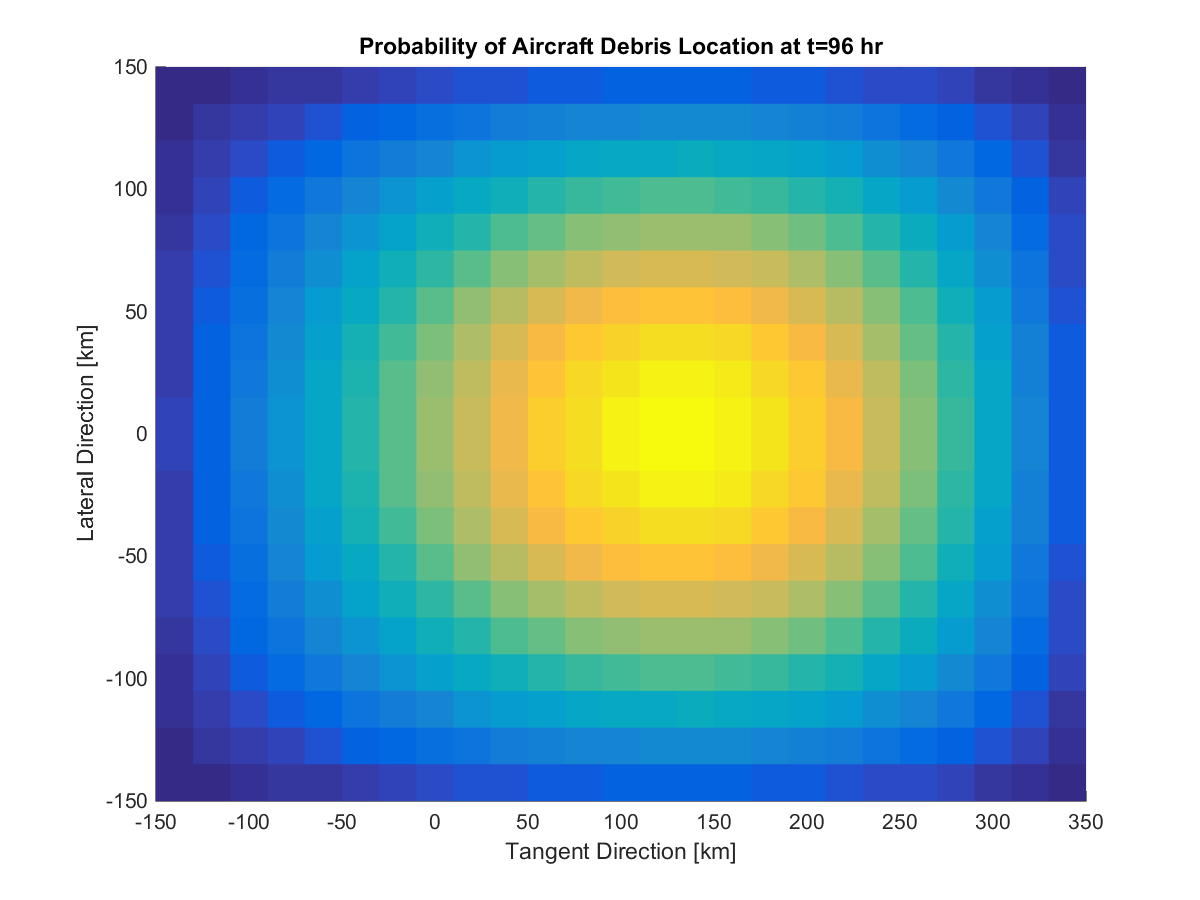
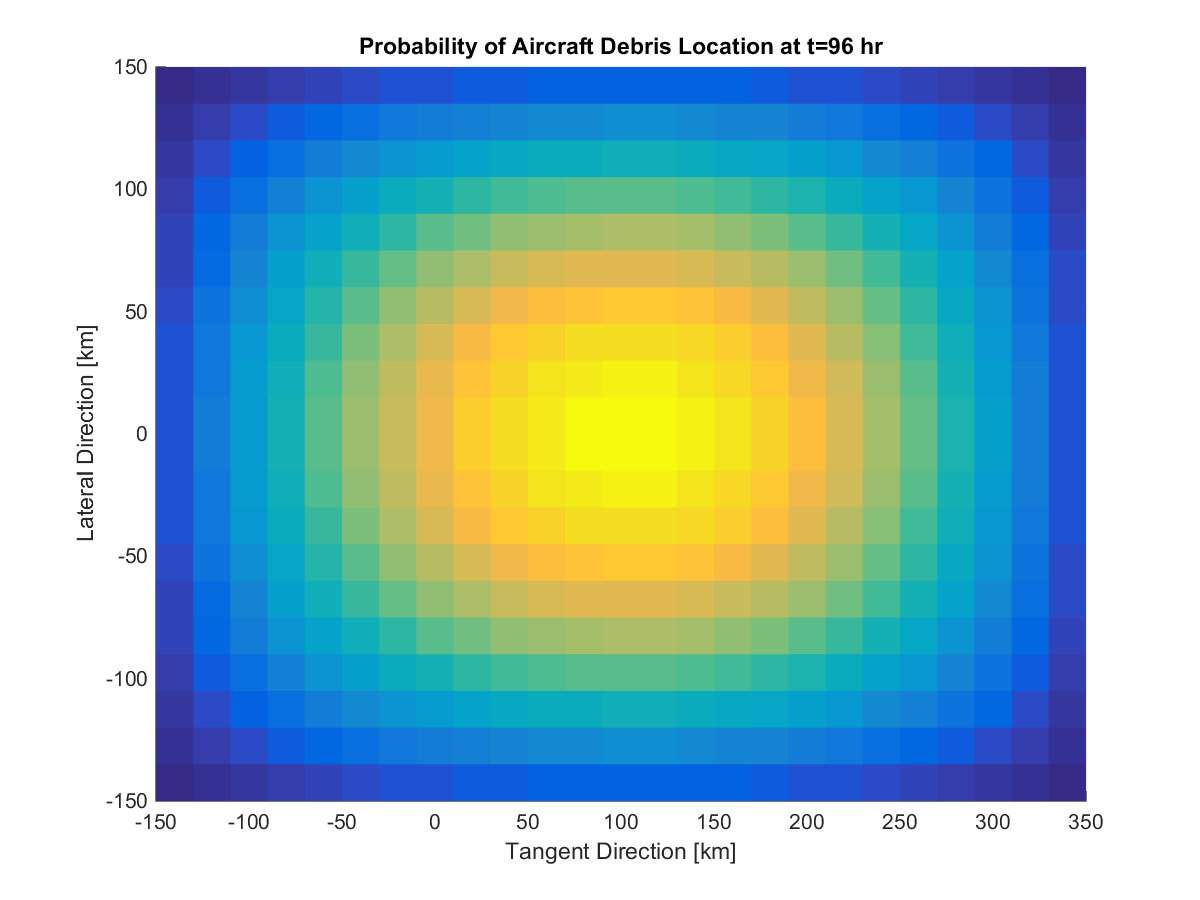
new commit

Changed region(s): [[0.1233, 0.0622, 0.555, 0.9022], [0.6475, 0.3111, 0.8325, 0.6533]]

diff --git a/simulation/main.m b/simulation/main.m
@@ -41,10 +41,11 @@ else
 end
 % # of 1D quadrature points (use even number for symm)
 Nquad = 2;
-% boundary distance [-x1 +x1 -x2 +x2]
+% search domain bounds [-x1 +x1 -x2 +x2]
 bdry = [-150 350 -150 150]*1e3; %m
-% reverse probability
+% reversing probability param
 s = .05; q = 1/pi-2*s;
+
 % average debris drift speed
 dV = 10; %m/s
 
@@ -70,103 +71,102 @@ title(['Estimated Crash Distance for ' acname])
 saveas(gcf,[acname '_CrashDistance.png']);
 
 %% continuous probability at x=(x1,x2)
-rtil = linspace(0,rint,Nrtil);
-Rtil = @(x) sqrt(sum((repmat(x,1,Nrtil)-[rtil;zeros(size(rtil))]).^2));
-theta = @(x) abs(atan2(x(2),x(1)-rtil));
-ptheta = @(x) q + theta(x)*(s-q)/pi;
-pdfx = @(x) interp1(R,PR,Rtil(x)).*ptheta(x);
-%% discritized probability at cell (eu,ev)
+    rtil = linspace(0,rint,Nrtil);
+    Rtil = @(x) sqrt(sum((repmat(x,1,Nrtil)-[rtil;zeros(size(rtil))]).^2));
+    theta = @(x) abs(atan2(x(2),x(1)-rtil));
+    ptheta = @(x) q + theta(x)*(s-q)/pi;
+    pdfx = @(x) interp1(R,PR,Rtil(x)).*ptheta(x);
+    %% discritized probability at cell (eu,ev)
 
-% pre-compute gauss-legendre points and weights
-[u,wu] = gaussquad(Nquad);
-[v,wv] = gaussquad(Nquad);
-Nu = nodefun(u);
-Nv = nodefun(v);
+    % pre-compute gauss-legendre points and weights
+    [u,wu] = gaussquad(Nquad);
+    [v,wv] = gaussquad(Nquad);
+    Nu = nodefun(u);
+    Nv = nodefun(v);
 
-% total domain area
-Agrid = (bdry(2)-bdry(1))*(bdry(4)-bdry(3)); %m2
-% grid pt construction
-S = Surface(N1grid,N2grid,bdry);
-P = zeros(S.numelements);
+    % total domain area
+    Agrid = (bdry(2)-bdry(1))*(bdry(4)-bdry(3)); %m2
+    % grid pt construction
+    S = Surface(N1grid,N2grid,bdry);
+    P = zeros(S.numelements);
 
-%% loops
-% note the vertical symmetry!!!
-wv = wv*2;
-for ev=1:S.numelements(2)/2
-    for eu=1:S.numelements(1)
-        for l=1:Nquad/2
-            for k=1:Nquad
-                % pullback quadrature pts coordinate 
-                [x,y] = S.coords(eu,ev,Nu(:,k),Nv(:,l));
-                Ptemp = sum(pdfx([x;y]))*rint/Nrtil;
-                P(eu,ev) = P(eu,ev) + wu(k)*wv(l)*Ptemp;
+    %% loops
+    % note the vertical symmetry!!!
+    wv = wv*2;
+    for ev=1:S.numelements(2)/2
+        for eu=1:S.numelements(1)
+            for l=1:Nquad/2
+                for k=1:Nquad
+                    % pullback quadrature pts coordinate 
+                    [x,y] = S.coords(eu,ev,Nu(:,k),Nv(:,l));
+                    Ptemp = sum(pdfx([x;y]))*rint/Nrtil;
+                    P(eu,ev) = P(eu,ev) + wu(k)*wv(l)*Ptemp;
+                end
             end
         end
+        P(:,S.numelements(2)-ev+1) = P(:,ev);
     end
-    P(:,S.numelements(2)-ev+1) = P(:,ev);
-end
-%% renormalize and save data
-P = P / sum(P(:));
-save(num2str(ACcase,'prior%d.mat'),'P','S');
-% load(num2str(casenum,'prior%d.mat'))
+    %% renormalize and save data
+    P = P / sum(P(:));
+    save(num2str(ACcase,'prior%d.mat'),'P','S');
+    % load(num2str(casenum,'prior%d.mat'))
 
-%% crash probability distribution graph
+    %% crash probability distribution graph
 
-Splot = Surface(N1grid,N2grid,bdry/1e3);
-figure(); hold all; grid on;
-plottwoform(Splot,P,3); colorbar;
-xlabel('Tangent Direction [km]'); ylabel('Lateral Direction [km]');
-title('Probability of Aircraft Debris Location at t=0 hr');
-hold all;
-traj = plot3([-1e6 0 rint 1e6]/1e3, [0 0 0 0], [1 1 1 1],'rx--');
-set(traj,'linewidth',2,'markersize',15)
-saveas(gcf,[acname '_PriorDistribution.png']);
+    Splot = Surface(N1grid,N2grid,bdry/1e3);
+    figure(); hold all; grid on;
+    plottwoform(Splot,P,3); colorbar;
+    xlabel('Tangent Direction [km]'); ylabel('Lateral Direction [km]');
+    title('Probability of Aircraft Debris Location at t=0 hr');
+    hold all;
+    traj = plot3([-1e6 0 rint 1e6]/1e3, [0 0 0 0], [1 1 1 1],'rx--');
+    set(traj,'linewidth',2,'markersize',15)
+    saveas(gcf,[acname '_PriorDistribution.png']);
 
 %% drift/diffusion simulation
-Tsim = 96*3600; %s
+    Tsim = 96*3600; %s
 
-PP = P;
-% update interval that is appropriate
-% i.e. allow only single cell diffusion given grid resolution
-if GRIDcase == 1
-    dt = .1*60*60; %s
-    Nsim = Tsim/dt; %steps
-else
-    dt = .6*60*60; %s
-    Nsim = Tsim/dt; %steps
-end
-Pmove = driftP(S,dt,dV);
+    PP = P;
+    % update interval that is appropriate
+    % i.e. allow only single cell diffusion given grid resolution
+    if GRIDcase == 1
+        dt = .1*60*60; %s
+        Nsim = Tsim/dt; %steps
+    else
+        dt = .4*60*60; %s
+        Nsim = Tsim/dt; %steps
+    end
+    [Pmove,Ncell] = driftP(S,dt,dV);
 
+    %% propogation steps
+    tVec = (0:dt:Tsim)/3600; %hr
 
-tVec = (0:dt:Tsim)/3600; %hr
+    % Probability of escape at t
+    Qt = zeros(Nsim+1,1);
+    % Probability of escape at t from t-1
+    qt = zeros(Nsim,1);
+    for t = 1:Nsim
+        [PP,qt(t)] = next(S,PP,Pmove);
+        Qt(t+1) = Qt(t) + qt(t)*(1-Qt(t));
+    end
 
-% Probability of escape at t
-Qt = zeros(Nsim+1,1);
-% Probability of escape at t from t-1
-qt = zeros(Nsim,1);
-% propogation loop
-for t = 1:Nsim
-    [PP,qt(t)] = next(S,PP,Pmove);
-    Qt(t+1) = Qt(t) + qt(t)*(1-Qt(t));
-end
-
-% for t = 1:Nsim
-%     [PP,qt(t)] = driftTransition2(S,dt,dV,PP);
-%     Qt(t+1) = Qt(t) + qt(t)*(1-Qt(t));
-% end
-%% Location density is no search initiates
-figure(); hold all; grid on;
-plottwoform(Splot,PP,3);
-xlabel('Tangent Direction [km]'); ylabel('Lateral Direction [km]');
-title(num2str(Tsim/3600, 'Probability of Aircraft Debris Location at t=%d hr'));
-saveas(gcf,[acname '_NoSearchDistribution.png']);
-%% Graph of escape probability over time
-figure(); hold all; grid on;
-plot(tVec,[0;qt],'x--');plot(tVec,Qt,'x--')
-legend('q_t','Q_t');
-xlabel('Time [hr]'); ylabel('Probability');
-title('Probability of Aircraft Debris Escaped Search Domain');
-saveas(gcf,[acname '_NoSearchEscape.png']);
+    % for t = 1:Nsim
+    %     [PP,qt(t)] = driftTransition2(S,dt,dV,PP);
+    %     Qt(t+1) = Qt(t) + qt(t)*(1-Qt(t));
+    % end
+    %% Location density if no search initiates
+    figure(); hold all; grid on;
+    plottwoform(Splot,PP,3);
+    xlabel('Tangent Direction [km]'); ylabel('Lateral Direction [km]');
+    title(num2str(Tsim/3600, 'Probability of Aircraft Debris Location at t=%d hr'));
+    saveas(gcf,[acname '_NoSearchDistribution.png']);
+    %% Graph of escape probability over time
+    figure(); hold all; grid on;
+    plot(tVec,[0;qt],'x--');plot(tVec,Qt,'x--')
+    legend('q_t','Q_t');
+    xlabel('Time [hr]'); ylabel('Probability');
+    title('Probability of Aircraft Debris Escaped Search Domain');
+    saveas(gcf,[acname '_NoSearchEscape.png']);
 %% Search Agent Data
 
 % given 99% detection range find sigma

diff --git a/simulation/driftP.m b/simulation/driftP.m
@@ -1,4 +1,4 @@
-function [Pmove,Pdiff] = driftP(S,dt,dV)
+function [Pmove,Ncell] = driftP(S,dt,dV)
 
 %% assumes zero knowledge of local drift direction and speed.
 
@@ -20,8 +20,8 @@ for i=2:Nmove-1
     Pmove(i) = normcdf(dd*i,ds,sigma_s) - Pmove(i-1);
 end
 Pmove(end) = 1 - sum(Pmove(1:end-1));
-Pdiff = 8*(1:Nmove)-8;
-Pdiff(1) = 1;
-Pmove = Pmove(:)./Pdiff(:);
+Ncell = 8*(1:Nmove)-8;
+Ncell(1) = 1;
+Pmove = Pmove(:)./Ncell(:);
 
 end

diff --git a/simulation/next.m b/simulation/next.m
@@ -1,8 +1,8 @@
 function [P,q] = next(S,P,Pmove)
 
-Nmove = numel(Pmove)-1;
+Nmove = numel(Pmove);
 Ppadded = zeros(S.dim+Nmove-1);
-Ppadded(Nmove:(end-Nmove+1),Nmove:(end-Nmove+1)) = P;
+% Ppadded(Nmove:(end-Nmove+1),Nmove:(end-Nmove+1)) = P;
 
 for i = 1:size(P,1)
     for j = 1:size(P,2)
